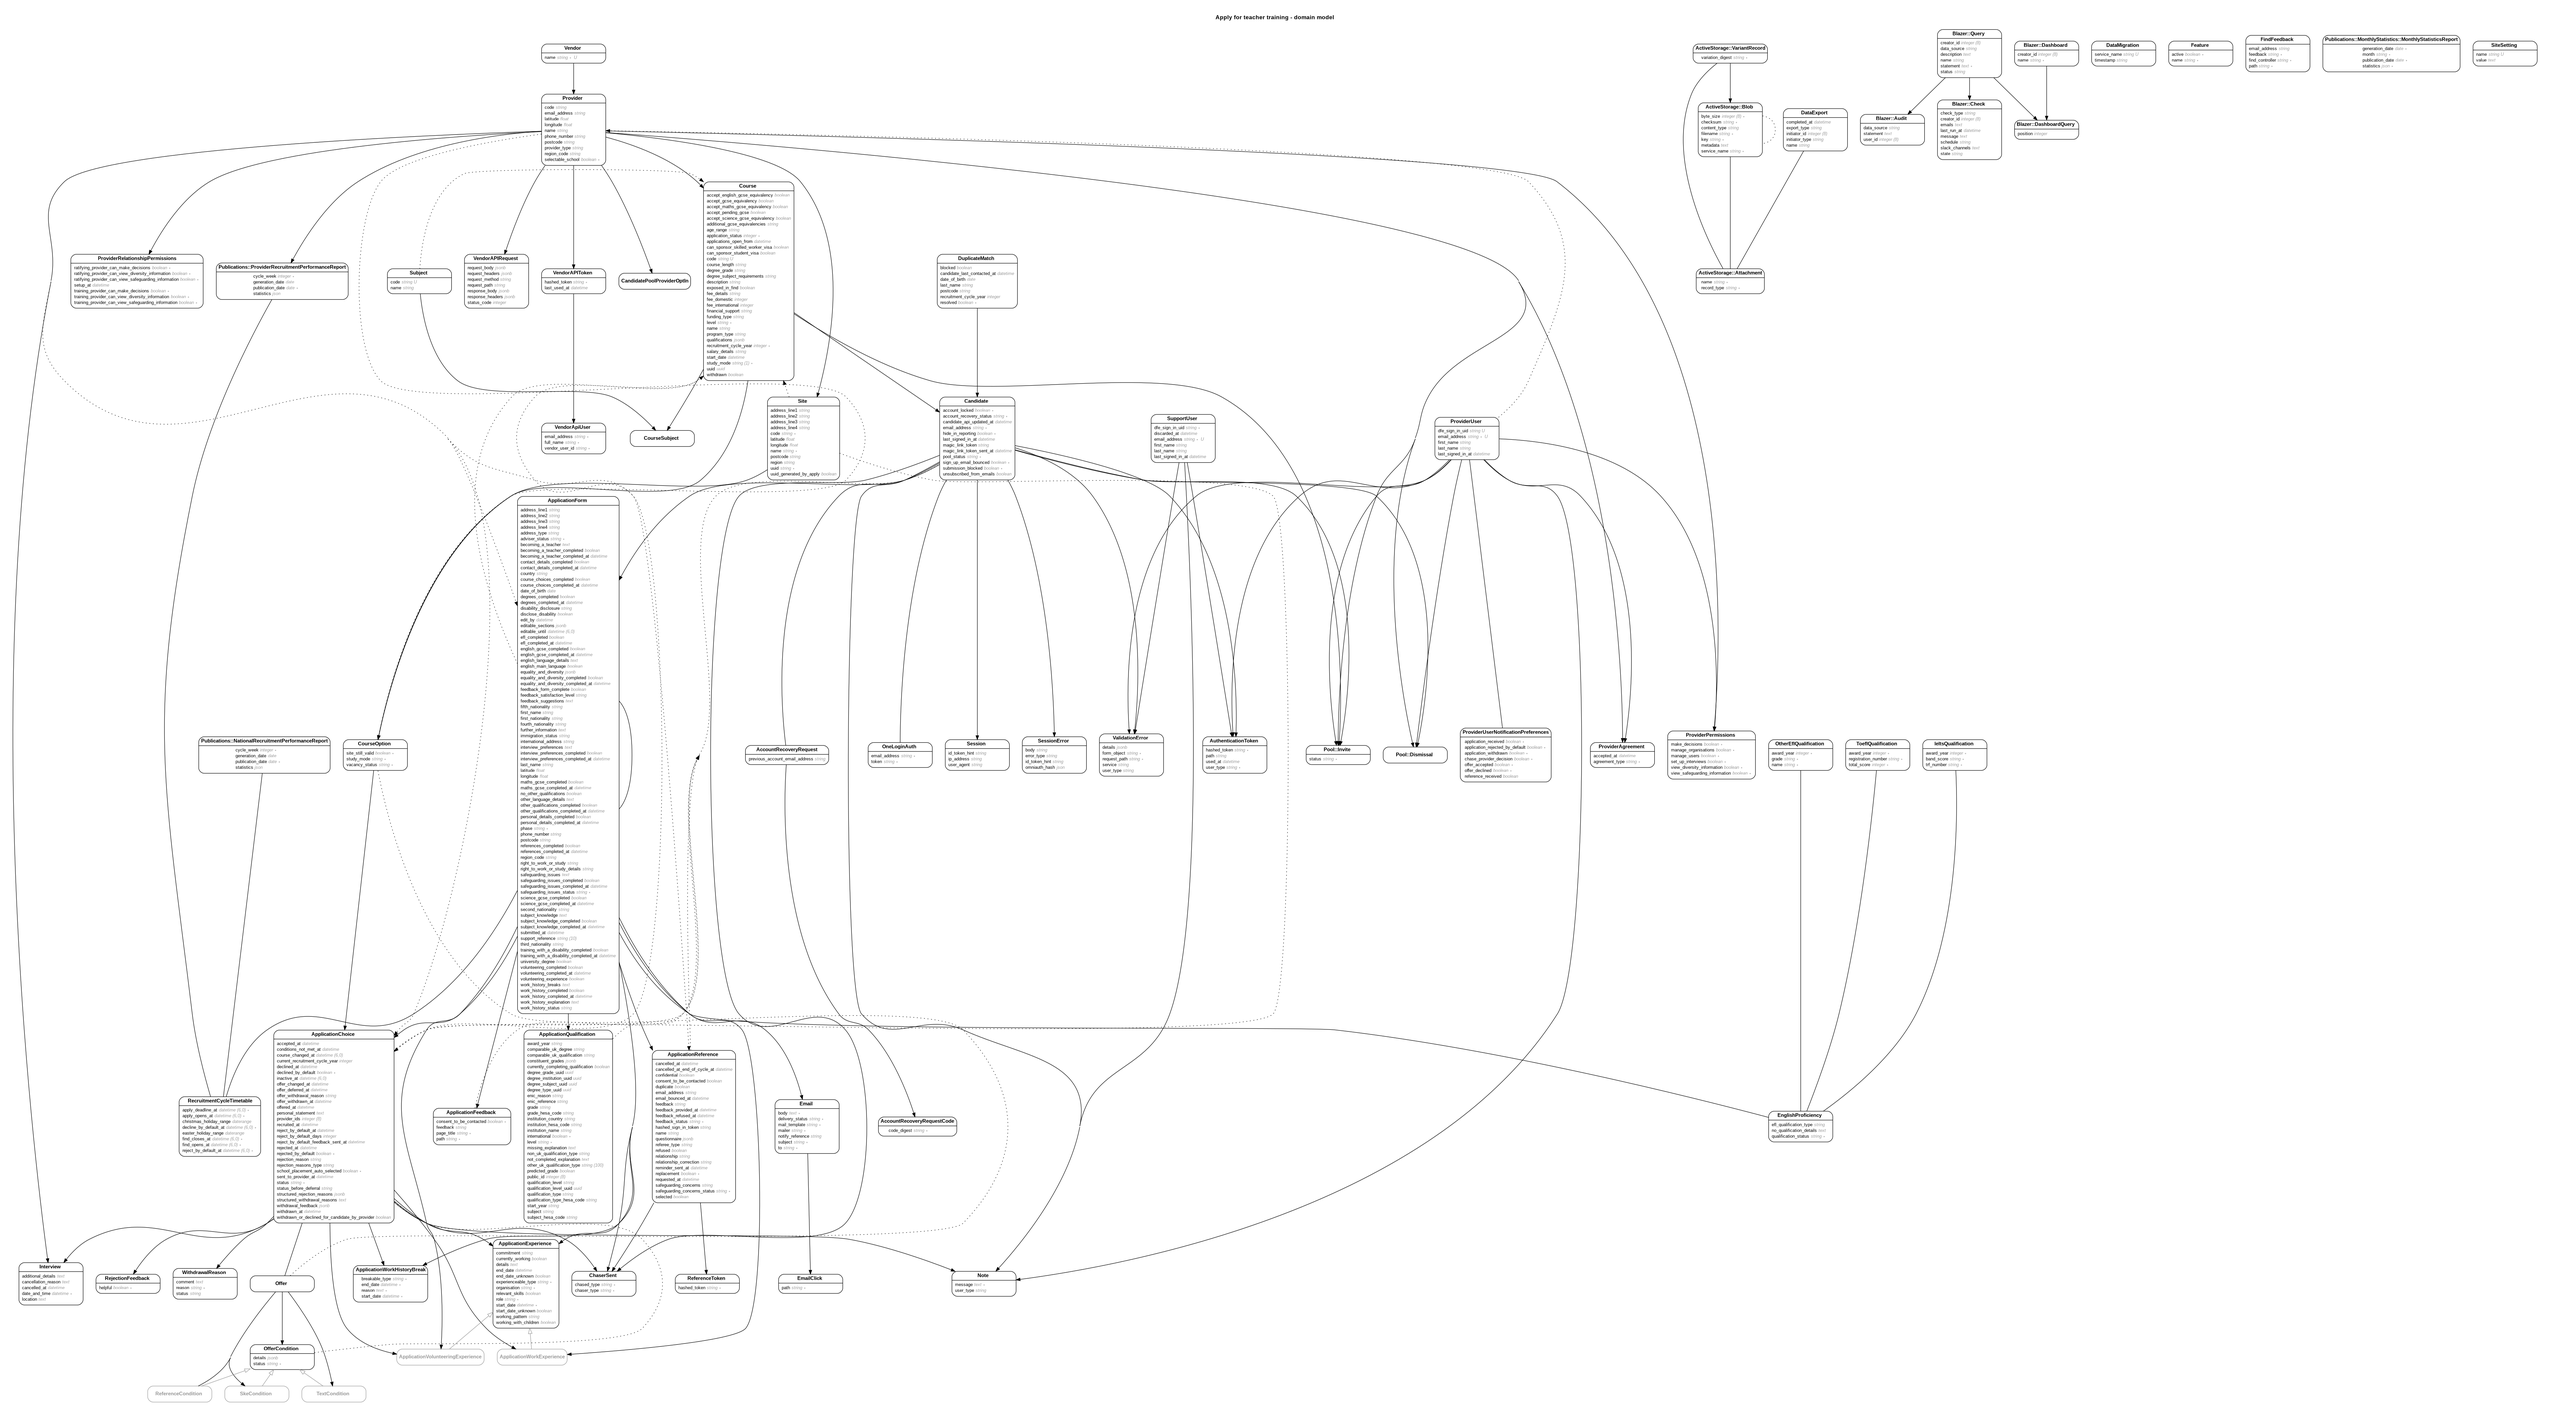
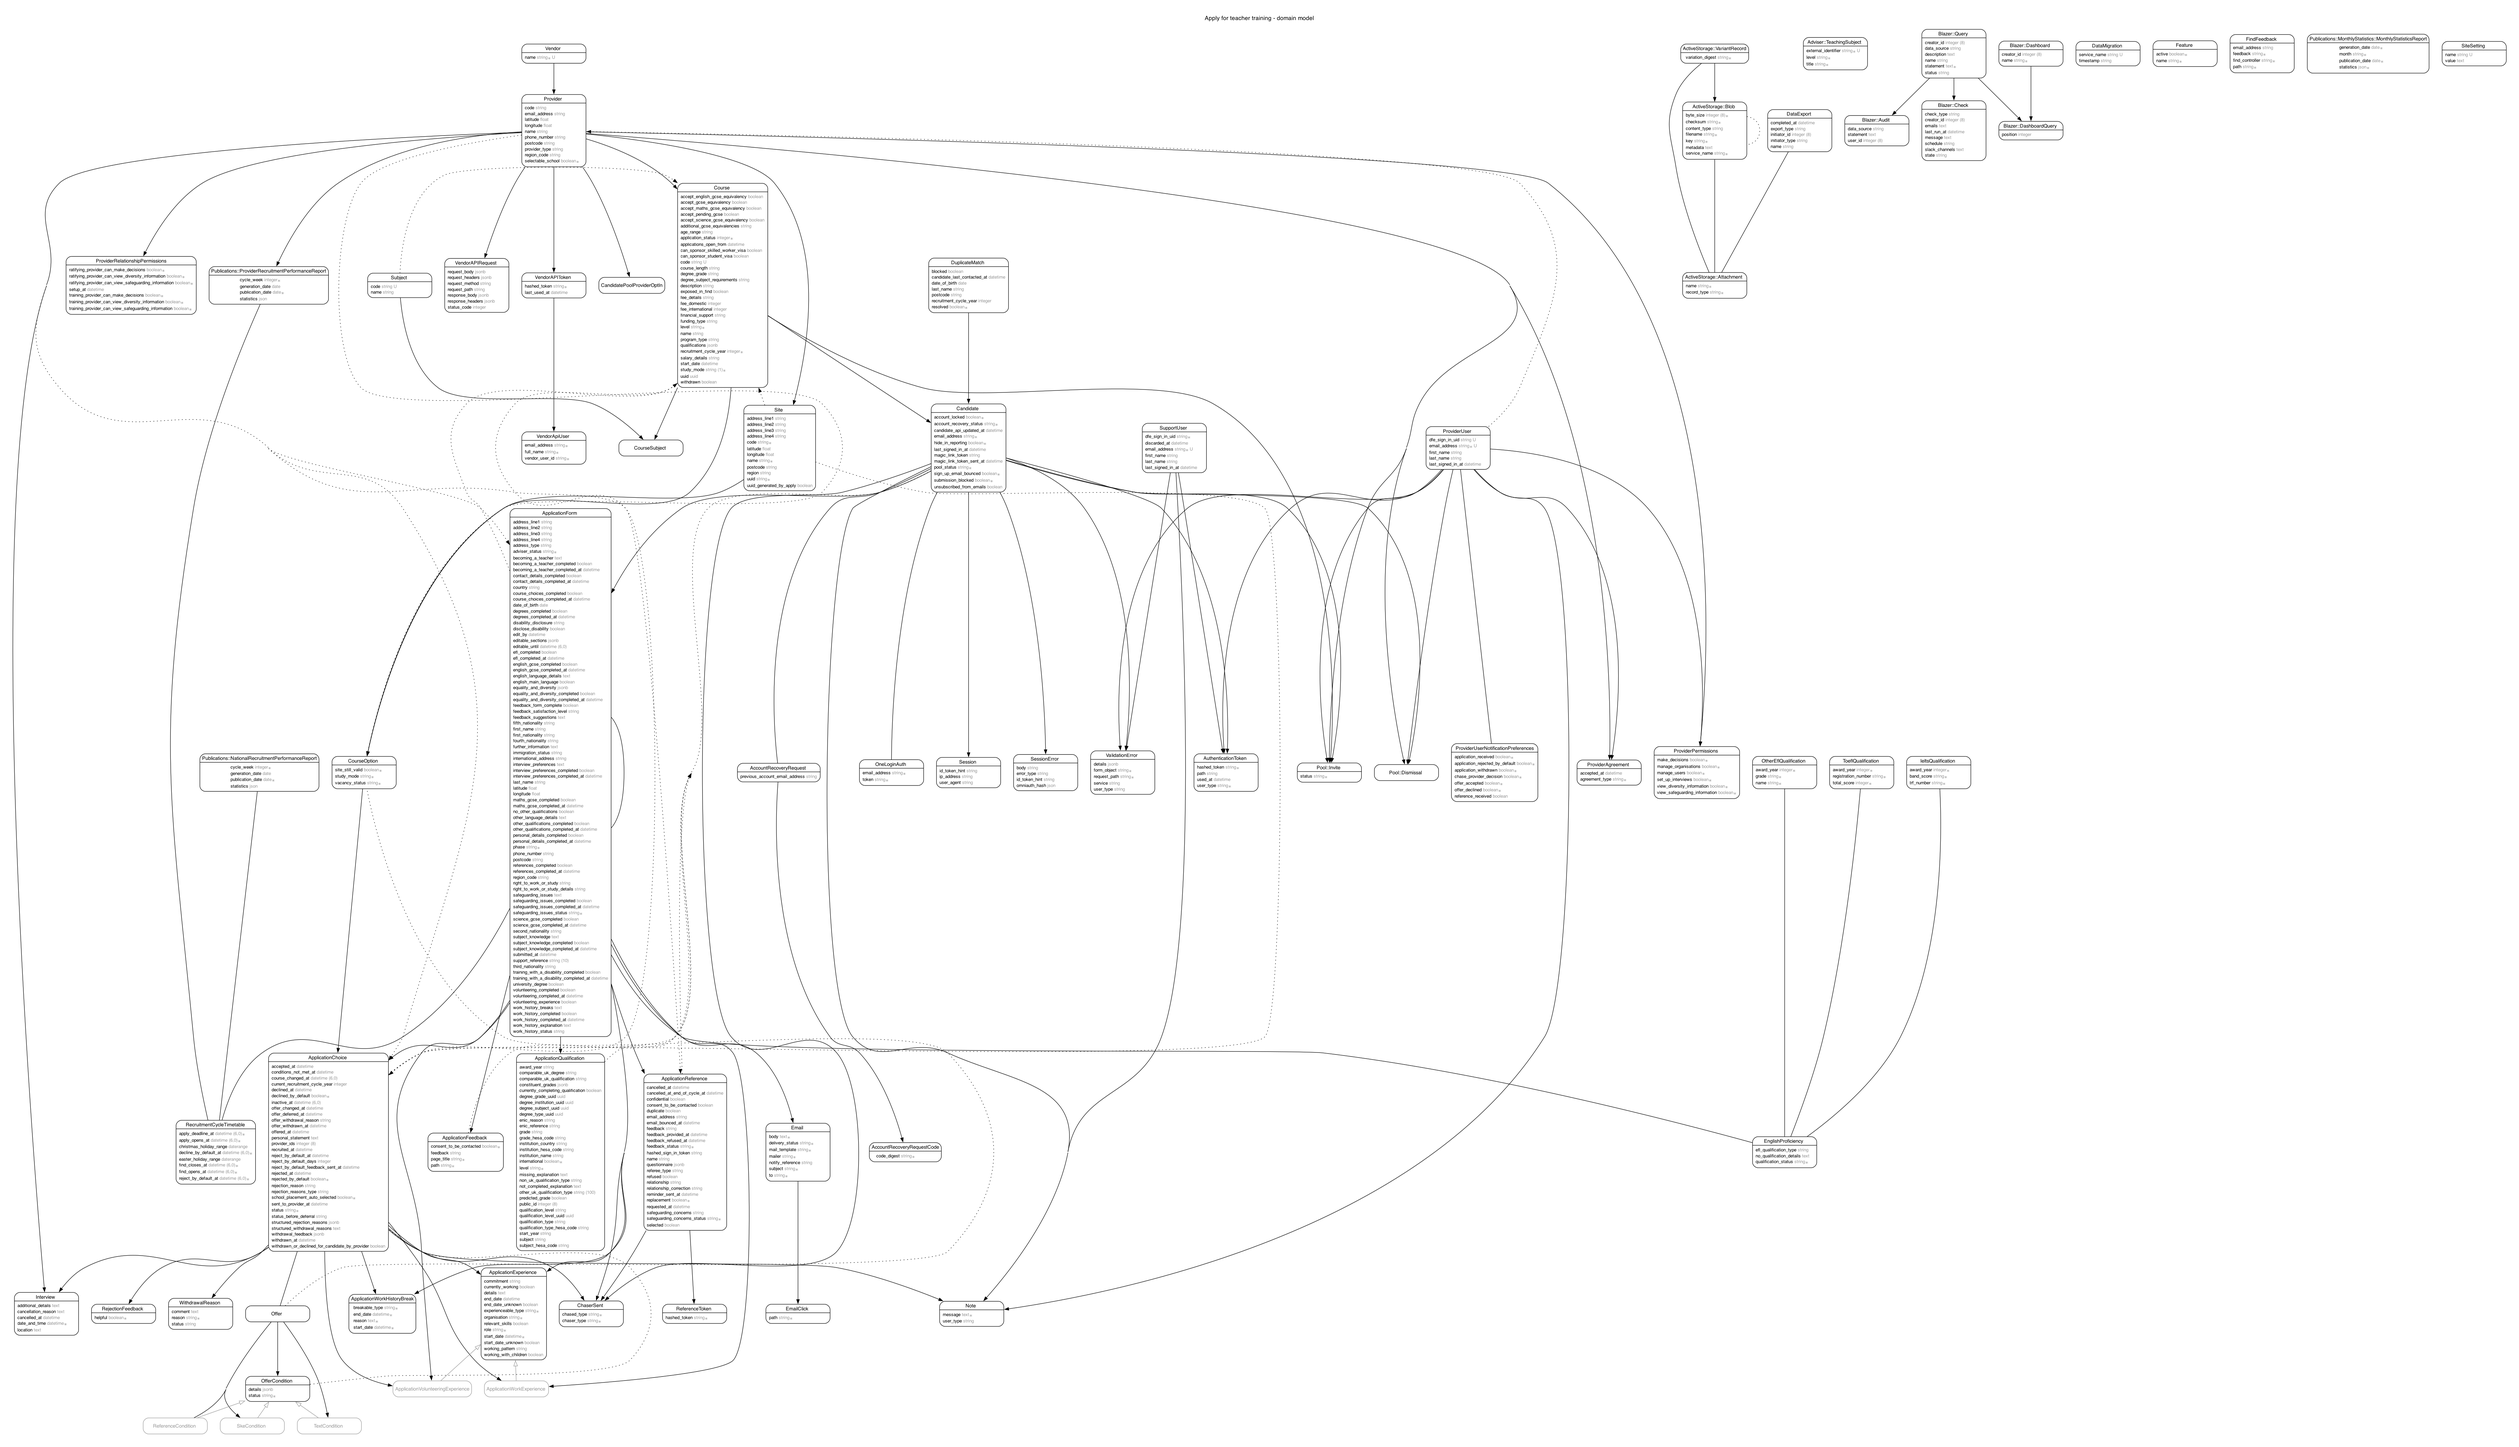
Add Adviser::TeachingSubject model (#10435)
## Context

We will be storing the Teaching Subjects in our database when syncing
them from GIT API

## Changes proposed in this pull request

Introduces a Adviser::TeachingSubject model. The model has a `level`
enum which will be populated to help with scoping.

## Guidance to review

- Contains database migration
- Part of https://trello.com/c/K0qO3A5s
- Requires #10434

diff --git a/db/schema.rb b/db/schema.rb
@@ -10,7 +10,7 @@
 #
 # It's strongly recommended that you check this file into your version control system.
 
-ActiveRecord::Schema[8.0].define(version: 2025_02_20_113656) do
+ActiveRecord::Schema[8.0].define(version: 2025_02_27_150325) do
   create_sequence "qualifications_public_id_seq", start: 120000
 
   # These are extensions that must be enabled in order to support this database
@@ -61,6 +61,15 @@ ActiveRecord::Schema[8.0].define(version: 2025_02_20_113656) do
     t.string "variation_digest", null: false
     t.datetime "created_at", null: false
     t.index ["blob_id", "variation_digest"], name: "index_active_storage_variant_records_uniqueness", unique: true
+  end
+
+  create_table "adviser_teaching_subjects", force: :cascade do |t|
+    t.string "title", null: false
+    t.string "external_identifier", null: false
+    t.string "level", null: false
+    t.datetime "created_at", null: false
+    t.datetime "updated_at", null: false
+    t.index ["external_identifier"], name: "index_adviser_teaching_subjects_on_external_identifier", unique: true
   end
 
   create_table "application_choices", force: :cascade do |t|

diff --git a/spec/models/adviser/teaching_subject_spec.rb b/spec/models/adviser/teaching_subject_spec.rb
@@ -1,0 +1,19 @@
+require 'rails_helper'
+
+RSpec.describe Adviser::TeachingSubject do
+  describe 'validations' do
+    subject { build(:adviser_teaching_subject) }
+
+    it { is_expected.to validate_presence_of :title }
+    it { is_expected.to validate_presence_of :external_identifier }
+    it { is_expected.to validate_uniqueness_of :external_identifier }
+
+    it {
+      expect(build(:adviser_teaching_subject)).to define_enum_for(:level)
+                           .backed_by_column_of_type(:string)
+                           .with_suffix
+                           .with_values(primary: 'primary', secondary: 'secondary')
+                           .validating
+    }
+  end
+end

diff --git a/app/models/adviser/teaching_subject.rb b/app/models/adviser/teaching_subject.rb
@@ -1,0 +1,11 @@
+class Adviser::TeachingSubject < ApplicationRecord
+  self.table_name = 'adviser_teaching_subjects'
+
+  validates :title, :external_identifier, presence: true
+  validates :external_identifier, uniqueness: true
+
+  enum :level, {
+    primary: 'primary',
+    secondary: 'secondary',
+  }, suffix: true, validate: true
+end

diff --git a/db/migrate/20250227150325_create_adviser_teaching_subjects.rb b/db/migrate/20250227150325_create_adviser_teaching_subjects.rb
@@ -1,0 +1,11 @@
+class CreateAdviserTeachingSubjects < ActiveRecord::Migration[8.0]
+  def change
+    create_table :adviser_teaching_subjects do |t|
+      t.string :title, null: false
+      t.string :external_identifier, null: false, index: { unique: true }
+      t.string :level, null: false
+
+      t.timestamps
+    end
+  end
+end

diff --git a/test/factories/adviser/teaching_subjects.rb b/test/factories/adviser/teaching_subjects.rb
@@ -1,0 +1,7 @@
+FactoryBot.define do
+  factory :adviser_teaching_subject, class: 'Adviser::TeachingSubject' do
+    sequence(:title) { |i| "Teaching Subject #{i}" }
+    sequence(:external_identifier) { |i| "git-api-id-#{i}" }
+    level { 'primary' }
+  end
+end
